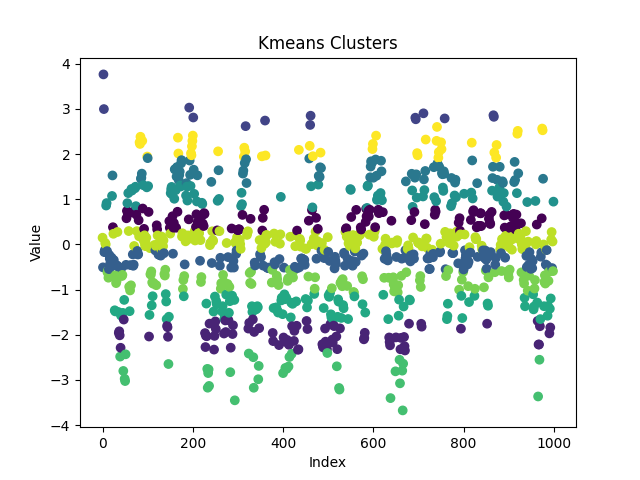
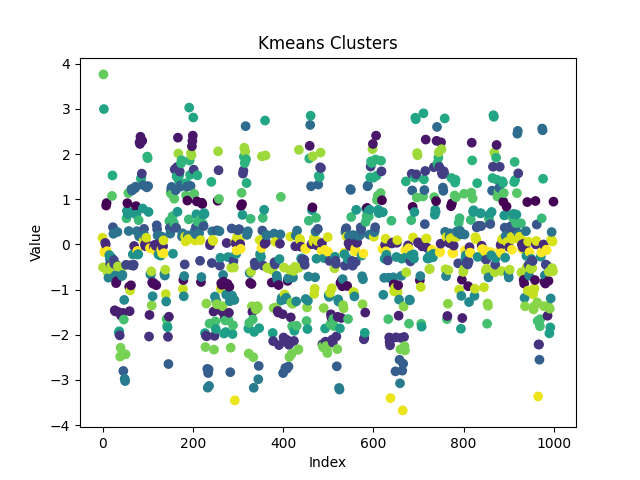
ready to begin paper

diff --git a/unsupervised_learning_dim_reduction/NN.py b/unsupervised_learning_dim_reduction/NN.py
@@ -1,0 +1,134 @@
+import re
+from tensorflow.keras.layers import Input, Dense
+from tensorflow.keras.models import Model
+from tensorflow.keras.optimizers import Adam
+from sklearn.decomposition import PCA
+from sklearn.decomposition import FastICA
+from sklearn.discriminant_analysis import LinearDiscriminantAnalysis
+from sklearn.random_projection import GaussianRandomProjection
+from sklearn.cluster import KMeans
+from sklearn.mixture import GaussianMixture
+from sklearn.metrics import accuracy_score,precision_score,recall_score
+from data_helpers import get_cs_go_data
+from sklearn.model_selection import train_test_split
+from plot_helpers import plot_neural_net_history_accuracy,plot_neural_net_history_loss
+import numpy as np
+import json
+
+class NN:
+
+    def __init__(self) -> None:
+        self.dr_algorithms = {
+            'pca': PCA(n_components=40),
+            'ica': FastICA(n_components=40),
+            'rp': GaussianRandomProjection(n_components=50),
+            'lda': LinearDiscriminantAnalysis()
+        }
+        self.clustering_algorithms = {
+            'kmeans': KMeans(n_clusters=10, max_iter=500, random_state=0),
+            'gmm': GaussianMixture(n_components=5, max_iter=500, random_state=0)
+        }
+        self.data, self.labels = get_cs_go_data()
+        self.eval_data = {}
+
+    def create_model(self,input_dim):
+        inputs = Input(shape=(input_dim))
+        layer = Dense(32, activation='relu')(inputs)
+        layer = Dense(32, activation='relu')(layer)
+        layer = Dense(32, activation='relu')(layer)
+        layer = Dense(4, activation='relu')(layer)
+        output = Dense(1, activation="sigmoid")(layer)
+        model = Model(inputs, output)
+        optimizer = Adam(learning_rate=0.001)
+        model.compile(optimizer=optimizer,loss='binary_crossentropy', metrics=['accuracy'])
+        return model
+
+    def write_out_eval(self,file_name,dir='nn_dr_data'):
+        with open(f'unsupervised_learning_dim_reduction/charts/{dir}/{file_name}','w') as f:
+            json.dump(self.eval_data,f,indent=4)
+        self.eval_data = {}
+
+
+    def evaluate_model(self, model, train_data, train_labels, val_data, val_labels, test_data, test_labels,algorithm):
+        # eval train data
+        pred = model.predict(train_data)
+        pred = np.where(pred<0.5,0,1)
+        acc = accuracy_score(train_labels,pred)
+        precision = precision_score(train_labels,pred)
+        recall = recall_score(train_labels,pred)
+        self.eval_data[algorithm]['training'] = {'Accuracy': acc,'Precision':precision,'Recall':recall}
+        # eval validation data
+        pred = model.predict(val_data)
+        pred = np.where(pred<0.5,0,1)
+        acc = accuracy_score(val_labels,pred)
+        precision = precision_score(val_labels,pred)
+        recall = recall_score(val_labels,pred)
+        self.eval_data[algorithm]['validation'] = {'Accuracy': acc,'Precision':precision,'Recall':recall}
+        # eval test data
+        pred = model.predict(test_data)
+        pred = np.where(pred<0.5,0,1)
+        acc = accuracy_score(test_labels,pred)
+        precision = precision_score(test_labels,pred)
+        recall = recall_score(test_labels,pred)
+        self.eval_data[algorithm]['testing'] = {'Accuracy': acc,'Precision':precision,'Recall':recall}
+        
+
+    def run_dr_net_test(self,dr_algorithm:str):
+        if dr_algorithm == 'lda':
+            reduced_data = self.dr_algorithms[dr_algorithm].fit_transform(self.data,self.labels)
+        else:
+            reduced_data = self.dr_algorithms[dr_algorithm].fit_transform(self.data)
+        
+        Xtrain, Xtest, Ytrain, Ytest = train_test_split(reduced_data,self.labels, test_size=0.33, random_state=42, shuffle=True)
+
+        Xtrain, Xval, Ytrain, Yval = train_test_split(Xtrain,Ytrain, test_size=0.2, random_state=42, shuffle=True)
+
+        model = self.create_model(Xtrain[0].shape[0])
+
+        history = model.fit(Xtrain,Ytrain,batch_size=128, epochs=100,validation_data=(Xval,Yval))
+
+        plot_neural_net_history_accuracy(history.history,f'{dr_algorithm}_accuracy',dir='nn_dr_data')
+        plot_neural_net_history_loss(history.history,f'{dr_algorithm}_loss',dir='nn_dr_data')
+
+        self.eval_data[dr_algorithm] = {}
+        self.evaluate_model(model,Xtrain,Ytrain,Xval,Yval,Xtest,Ytest,dr_algorithm)
+
+    def run_clustering_net_test(self,clustering_algorithm:str):
+        if clustering_algorithm == 'kmeans':
+            kmeans = self.clustering_algorithms[clustering_algorithm].fit(self.data)
+            labels = kmeans.labels_
+            clustered_labeled_data = np.concatenate((self.data,np.array(labels).reshape(-1,1)),axis=1)
+        else:
+            gmm = self.clustering_algorithms[clustering_algorithm].fit(self.data)
+            labels = gmm.predict(self.data)
+            clustered_labeled_data = np.concatenate((self.data,np.array(labels).reshape(-1,1)),axis=1)
+
+        Xtrain, Xtest, Ytrain, Ytest = train_test_split(clustered_labeled_data,self.labels, test_size=0.33, random_state=42, shuffle=True)
+
+        Xtrain, Xval, Ytrain, Yval = train_test_split(Xtrain,Ytrain, test_size=0.2, random_state=42, shuffle=True)
+
+        model = self.create_model(Xtrain[0].shape[0])
+
+        history = model.fit(Xtrain,Ytrain,batch_size=128, epochs=100,validation_data=(Xval,Yval))
+
+        plot_neural_net_history_accuracy(history.history,f'{clustering_algorithm}_accuracy',dir='nn_cluster_data')
+        plot_neural_net_history_loss(history.history,f'{clustering_algorithm}_loss',dir='nn_cluster_data')
+
+        self.eval_data[clustering_algorithm] = {}
+        self.evaluate_model(model,Xtrain,Ytrain,Xval,Yval,Xtest,Ytest,clustering_algorithm)
+
+if __name__ == '__main__':
+    import os
+    os.environ["CUDA_VISIBLE_DEVICES"]="-1"
+    net_test = NN()
+    # Run the DR test
+    # net_test.run_dr_net_test('pca')
+    # net_test.run_dr_net_test('ica')
+    # net_test.run_dr_net_test('rp')
+    # net_test.run_dr_net_test('lda')
+    # net_test.write_out_eval('nn_dr_metrics',dir='nn_dr_data')
+
+    # Run the clustering nets
+    net_test.run_clustering_net_test('kmeans')
+    net_test.run_clustering_net_test('gmm')
+    net_test.write_out_eval('nn_clustering_metrics',dir='nn_cluster_data')

diff --git a/unsupervised_learning_dim_reduction/clustering.py b/unsupervised_learning_dim_reduction/clustering.py
@@ -1,8 +1,9 @@
 import numpy as np
+import pandas as pd
 from sklearn.cluster import KMeans
 from sklearn.mixture import GaussianMixture
 from sklearn.metrics import silhouette_score, homogeneity_score, completeness_score, accuracy_score, calinski_harabasz_score
-from plot_helpers import plot_clusters, plot_elbow, plot_homo_and_complete, plot_silhouette, plot_calinski_harabasz
+from plot_helpers import plot_clusters, plot_elbow, plot_homo_and_complete, plot_silhouette, plot_calinski_harabasz, pair_wise_plot
 
 def gmm_experiment(data,labels,dataset,dir):
     print('Begin GMM Clustering')
@@ -59,13 +60,45 @@ def evaluate_kmeans(data, truth_labels, num_clusters, dataset,dir):
     plot_clusters(data,labels,'Kmeans',f'{dataset}_kmeans_clusters',dir=dir)
     # get kmeans metrics
     accuracy = accuracy_score(truth_labels,labels)
+    sil_score = silhouette_score(data,labels, metric='euclidean')
+    ch_score = calinski_harabasz_score(data,labels)
+    homo_score = homogeneity_score(truth_labels,labels)
+    completeness = completeness_score(truth_labels,labels)
     print(f'Accuracy: {accuracy}')
+    print(f'Silhouette: {sil_score}')
+    print(f'Calinski Harabasz: {ch_score}')
+    print(f'Homogeneity: {homo_score}')
+    print(f'Completeness: {completeness}')
+
+    data = np.concatenate((data,np.array(labels).reshape(-1,1)),axis=1)
+    # delete excess features that take forever to plot
+    if data.shape[1] > 10:
+        data = np.delete(data,list(range(10,data.shape[1]-1)),axis=1)
+    data = pd.DataFrame(data)
+    pair_wise_plot(data,data.columns[-1],f'{dataset}_kmeans_pairwise',dir=dir)
 
 def evaluate_gmm(data, truth_labels, num_components,dataset,dir):
     gmm = GaussianMixture(n_components=num_components,max_iter=500, random_state=0).fit(data)
     labels = gmm.predict(data)
 
     plot_clusters(data,labels,'GMM',f'{dataset}_gmm_clusters',dir=dir)
-
+    # get gmm metrics
     accuracy = accuracy_score(truth_labels,labels)
+    sil_score = silhouette_score(data,labels, metric='euclidean')
+    ch_score = calinski_harabasz_score(data,labels)
+    homo_score = homogeneity_score(truth_labels,labels)
+    completeness = completeness_score(truth_labels,labels)
     print(f'Accuracy: {accuracy}')
+    print(f'Silhouette: {sil_score}')
+    print(f'Calinski Harabasz: {ch_score}')
+    print(f'Homogeneity: {homo_score}')
+    print(f'Completeness: {completeness}')
+
+
+    data = np.concatenate((data,np.array(labels).reshape(-1,1)),axis=1)
+    # delete excess features that take forever to plot
+    if data.shape[1] > 10:
+        data = np.delete(data,list(range(10,data.shape[1]-1)),axis=1)
+    data = pd.DataFrame(data)
+    pair_wise_plot(data,data.columns[-1],f'{dataset}_gmm_pairwise',dir=dir)
+    

diff --git a/unsupervised_learning_dim_reduction/original_data_experiments.py b/unsupervised_learning_dim_reduction/original_data_experiments.py
@@ -6,20 +6,20 @@ if __name__ == '__main__':
 
     loan_data, loan_labels  = get_loan_defualt()
 
-    kmeans_experiment(cs_go_data,cs_go_labels,'csgo','original_data')
+    # kmeans_experiment(cs_go_data,cs_go_labels,'csgo',dir='original_data')
 
-    gmm_experiment(cs_go_data,cs_go_labels,'csgo','orginal_data')
+    # gmm_experiment(cs_go_data,cs_go_labels,'csgo',dir='original_data')
 
-    kmeans_experiment(loan_data,loan_labels,'loan','original_data')
+    # kmeans_experiment(loan_data,loan_labels,'loan',dir='original_data')
 
-    gmm_experiment(loan_data,loan_labels,'loan','orginal_data')
+    # gmm_experiment(loan_data,loan_labels,'loan',dir='original_data')
 
-    evaluate_kmeans(cs_go_labels,cs_go_labels,10)
+    evaluate_kmeans(cs_go_data,cs_go_labels,4,'csgo','original_data')
 
-    evaluate_gmm(cs_go_data,cs_go_labels,5)
+    evaluate_gmm(cs_go_data,cs_go_labels,3,'csgo','original_data')
 
-    evaluate_kmeans(loan_data,loan_labels,14)
+    evaluate_kmeans(loan_data,loan_labels,5,'loan','original_data')
 
-    evaluate_gmm(loan_data,loan_labels,5)
+    evaluate_gmm(loan_data,loan_labels,9,'loan','original_data')
 
 

diff --git a/unsupervised_learning_dim_reduction/ICA.py b/unsupervised_learning_dim_reduction/ICA.py
@@ -76,6 +76,6 @@ if __name__ == '__main__':
 
     # ica_experiment(loan_data,loan_labels,8,'loan')
 
-    ica_evaluate(cs_go_data,cs_go_labels,'csgo',dr_components=10,kmeans_clusters=11,gmm_components=12)
+    ica_evaluate(cs_go_data,cs_go_labels,'csgo',dr_components=10,kmeans_clusters=3,gmm_components=4)
 
-    ica_evaluate(loan_data,loan_labels,'loan',dr_components=8,kmeans_clusters=9,gmm_components=11)
+    ica_evaluate(loan_data,loan_labels,'loan',dr_components=8,kmeans_clusters=4,gmm_components=2)

diff --git a/unsupervised_learning_dim_reduction/RP.py b/unsupervised_learning_dim_reduction/RP.py
@@ -70,6 +70,6 @@ if __name__ == '__main__':
 
     # rp_experiment(loan_data,loan_labels,9,'loan')
 
-    rp_evaluate(cs_go_data,cs_go_labels,'csgo',dr_components=10,kmeans_clusters=11,gmm_components=12)
+    rp_evaluate(cs_go_data,cs_go_labels,'csgo',dr_components=10,kmeans_clusters=6,gmm_components=7)
 
-    rp_evaluate(loan_data,loan_labels,'loan',dr_components=8,kmeans_clusters=9,gmm_components=11)
+    rp_evaluate(loan_data,loan_labels,'loan',dr_components=8,kmeans_clusters=4,gmm_components=8)

diff --git a/unsupervised_learning_dim_reduction/LDA.py b/unsupervised_learning_dim_reduction/LDA.py
@@ -51,6 +51,6 @@ if __name__ == '__main__':
 
     # lda_experiment(loan_data,loan_labels,'loan')
 
-    lda_evaluate(cs_go_data,cs_go_labels,'csgo',kmeans_clusters=11,gmm_components=12)
+    lda_evaluate(cs_go_data,cs_go_labels,'csgo',kmeans_clusters=35,gmm_components=35)
 
-    lda_evaluate(loan_data,loan_labels,'loan',kmeans_clusters=9,gmm_components=11)
+    lda_evaluate(loan_data,loan_labels,'loan',kmeans_clusters=15,gmm_components=25)

diff --git a/unsupervised_learning_dim_reduction/PCA.py b/unsupervised_learning_dim_reduction/PCA.py
@@ -80,4 +80,4 @@ if __name__ == '__main__':
 
     pca_evaluate(cs_go_data,cs_go_labels,'csgo',dr_components=50,kmeans_clusters=15,gmm_components=14)
 
-    pca_evaluate(loan_data,loan_labels,'loan',dr_components=6,kmeans_clusters=9,gmm_components=11)
+    pca_evaluate(loan_data,loan_labels,'loan',dr_components=6,kmeans_clusters=8,gmm_components=11)
